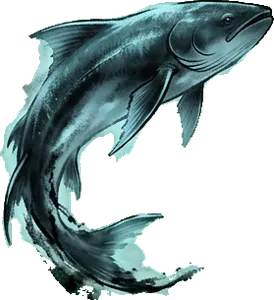
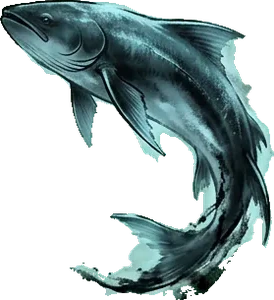
切回前台显示「加载游戏中…」等服务器结算完（api.js / style.css / server.mjs resync 先结算 / MainActivity）；8 张怪物图左右翻转朝向玩家（3_1 7_5 14_0 39_0 46_6 48_3 m12 m41），IMG_V=14

diff --git a/web/js/core/api.js b/web/js/core/api.js
@@ -228,6 +228,7 @@ const API = {
     const j = await this.req("session");
     this.syncClock(j.serverNow);
     this.installActions(j.actions || []);
+    this.installResume();
     this.serverState = j.data || null;
     if (j.data) await this.connectSocket();
     return j.data;
@@ -237,6 +238,7 @@ const API = {
     const j = await this.req("character", { name: String(name || "无名散修").slice(0, 12) });
     this.serverState = j.data;
     this.syncClock(j.serverNow);
+    this.installResume();
     await this.connectSocket();
     return j.data;
   },
@@ -281,6 +283,7 @@ const API = {
     try { message = JSON.parse(raw); } catch { return; }
     if (message.type === "snapshot") {
       this.applyState(message);
+      if (this._resumeWait && message.state) this.resumeDone();   // 切回前台后服务器推回了结算好的完整状态
       this.toastLogs(message.logs);
       this.setSync("已同步到服务器");
       return;
@@ -420,5 +423,67 @@ const API = {
   async userList() { return this.req("admin/users"); },
   async setRegOpen(open) { return this.req("admin/reg", { open }); },
   async userDelete(id) { return this.req("admin/user/del", { id }); },
+  // ---- 从后台切回游戏：显示「加载游戏中…」，等服务器把离开这段时间结算完、推回完整状态再关闭 ----
+  _hiddenAt: 0, _resumeWait: false, _resumeTimer: 0, _resumeKick: 0, _resumeRetry: 0,
+  RESUME_MIN_MS: 1500,   // 离开不到 1.5 秒（如下拉通知栏）不显示
+  installResume() {
+    if (this._resumeInstalled || typeof document === "undefined") return;
+    this._resumeInstalled = true;
+    const mono = () => (typeof performance !== "undefined" ? performance.now() : 0);
+    document.addEventListener("visibilitychange", () => {
+      if (document.hidden) { this._hiddenAt = mono(); return; }
+      const away = this._hiddenAt ? mono() - this._hiddenAt : 0;
+      this._hiddenAt = 0;
+      this.onResume(away);
+    });
+    window.addEventListener("pageshow", e => { if (e.persisted) this.onResume(this.RESUME_MIN_MS); });
+    // 安卓安装版：MainActivity.onResume 会调用 window.__appResume(离开的毫秒数)
+    window.__appResume = ms => this.onResume(Number(ms) || 0);
+  },
+  onResume(awayMs) {
+    if (!this.token || !this.serverState || this._resumeWait) return;
+    if (!(awayMs >= this.RESUME_MIN_MS)) return;
+    this._resumeWait = true;
+    this.showResume(true);
+    const s = this._socket;
+    if (s && s.readyState === WebSocket.OPEN) {
+      try { s.send(JSON.stringify({ type: "resync" })); } catch {}
+      // 连接可能在后台已经断了但还没发现：2.5 秒没收到结算结果就换一条新连接
+      clearTimeout(this._resumeKick);
+      this._resumeKick = setTimeout(() => {
+        if (!this._resumeWait) return;
+        if (this._socket === s) { this._socket = null; s.onmessage = null; try { s.close(4000, "resume"); } catch {} }
+        this.connectSocket().catch(() => {});
+      }, 2500);
+    } else this.connectSocket().catch(() => {});
+    // 连不上就每 3 秒再试一次；最多等 20 秒，之后关掉提示（后台继续自动重连）
+    clearInterval(this._resumeRetry);
+    this._resumeRetry = setInterval(() => {
+      if (!this._resumeWait) return clearInterval(this._resumeRetry);
+      if (!this._socket && !this._connectPromise) this.connectSocket().catch(() => {});
+    }, 3000);
+    clearTimeout(this._resumeTimer);
+    this._resumeTimer = setTimeout(() => {
+      if (!this._resumeWait) return;
+      this.resumeDone();
+      this.showActionFeedback("连接服务器较慢，正在后台重试…", "bad");
+    }, 20_000);
+  },
+  resumeDone() {
+    this._resumeWait = false;
+    clearTimeout(this._resumeTimer); clearTimeout(this._resumeKick); clearInterval(this._resumeRetry);
+    this.showResume(false);
+  },
+  showResume(on) {
+    let el = document.getElementById("resume-load");
+    if (!el) {
+      if (!on) return;
+      el = document.createElement("div"); el.id = "resume-load";
+      el.innerHTML = "<span>加载游戏中…</span>";
+      document.body.appendChild(el);
+    }
+    el.classList.toggle("show", !!on);
+  },
+
   setSync(text) { const el = document.getElementById("sync"); if (el) el.textContent = text; },
 };

diff --git a/web/index.html b/web/index.html
@@ -6,7 +6,7 @@
 <meta name="theme-color" content="#14110f">
 <meta name="apple-mobile-web-app-capable" content="yes">
 <title>问道长生 · 文字修仙</title>
-<link rel="stylesheet" href="css/style.css?v=216">
+<link rel="stylesheet" href="css/style.css?v=217">
 </head>
 <body class="nologin">
 <div id="boot">问道长生<small>加载中…</small></div>
@@ -76,12 +76,12 @@
 <script src="js/data/maps.js?v=219"></script>
 <script src="js/data/jiegf.js?v=208"></script>
 <script src="js/data/craft.js?v=208"></script>
-<script src="js/data/forge.js?v=208"></script>
+<script src="js/data/forge.js?v=209"></script>
 <script src="js/data/refstats.js?v=208"></script>
 <script src="js/data/mobs.js?v=208"></script>
 
 <script src="js/core/util.js?v=208"></script>
-<script src="js/core/api.js?v=213"></script>
+<script src="js/core/api.js?v=214"></script>
 <script src="js/core/game.js?v=210"></script>
 
 <script src="js/modules/player.js?v=208"></script>

diff --git a/web/css/style.css b/web/css/style.css
@@ -565,3 +565,7 @@ html[data-bg="xuanzhi"] .bar-img,html[data-bg="xinghuang"] .bar-img,html[data-bg
 .bg-grid{display:grid;grid-template-columns:repeat(4,1fr);gap:6px}
 .bg-sw{height:72px;border-radius:6px;border:1px solid var(--c-line);display:flex;align-items:flex-end;justify-content:center;padding:0 0 3px;font-size:12px;color:#f4ead2;text-shadow:0 1px 2px #000;background-size:cover}
 .bg-sw.on{border:2px solid var(--t-gold)}
+/* 从后台切回游戏：等服务器结算完成前的「加载游戏中…」 */
+#resume-load{position:fixed;inset:0;z-index:100;display:none;align-items:center;justify-content:center;background:rgba(14,12,10,.6)}
+#resume-load.show{display:flex}
+#resume-load span{padding:14px 28px;background:#2a2219f2;border:1px solid #c9a45c;border-radius:10px;color:#f3e6c8;font-size:22px;font-weight:900;letter-spacing:3px;text-shadow:0 1px 2px #000;box-shadow:0 4px 18px #000a}

diff --git a/web/js/data/forge.js b/web/js/data/forge.js
@@ -275,7 +275,7 @@ DATA.fabaoInfo = (e, own) => {
  *   img/icons/pill_丹药id.png 修炼丹、dan_类型.png 属性丹、fu_dan / fu_qi.png 炉子、ss.png 空间石
  *   fbs形状_属性.png 法宝（7 种形状 × 6 种属性）、sm_ys属性.png 耀石、mifa.png 秘法、seed.png 种子、stone.png 灵石、cu_misc.png 自定义物品
  *   hx.png 火髓、bp.png 图纸 */
-DATA.IMG_V = 13;
+DATA.IMG_V = 14;
 DATA.matImg = (kind, g) => `img/mats/${kind}${g}.png?v=${DATA.IMG_V}`;
 DATA.iconImg = n => `img/icons/${n}.png?v=${DATA.IMG_V}`;
 DATA.ICON_EQ = ["helmet", "armor", "weapon", "legs", "boots", "pendant", "ring"];

diff --git a/android/app/src/main/java/com/xiu/game/MainActivity.java b/android/app/src/main/java/com/xiu/game/MainActivity.java
@@ -90,10 +90,22 @@ public class MainActivity extends Activity {
     }
 
     // 切后台 / 切回来：通知 WebView（切回来时马上恢复绘制，减少黑屏）；不暂停 JS 定时器，切后台时网页还要上传存档
+    // 切回来时告诉网页离开了多久（window.__appResume），网页显示「加载游戏中…」直到服务器结算完
+    private long pausedAt = 0;
     @Override
-    protected void onPause() { super.onPause(); if (web != null) web.onPause(); }
+    protected void onPause() { super.onPause(); pausedAt = android.os.SystemClock.elapsedRealtime(); if (web != null) web.onPause(); }
     @Override
-    protected void onResume() { super.onResume(); if (web != null) { web.onResume(); web.resumeTimers(); web.invalidate(); } }
+    protected void onResume() {
+        super.onResume();
+        if (web != null) {
+            web.onResume(); web.resumeTimers(); web.invalidate();
+            if (pausedAt > 0) {
+                long away = android.os.SystemClock.elapsedRealtime() - pausedAt;
+                pausedAt = 0;
+                web.evaluateJavascript("window.__appResume&&window.__appResume(" + away + ")", null);
+            }
+        }
+    }
 
     private void loadImgVer() {
         try (BufferedReader r = new BufferedReader(new InputStreamReader(getAssets().open("img_ver.txt"), "UTF-8"))) {
